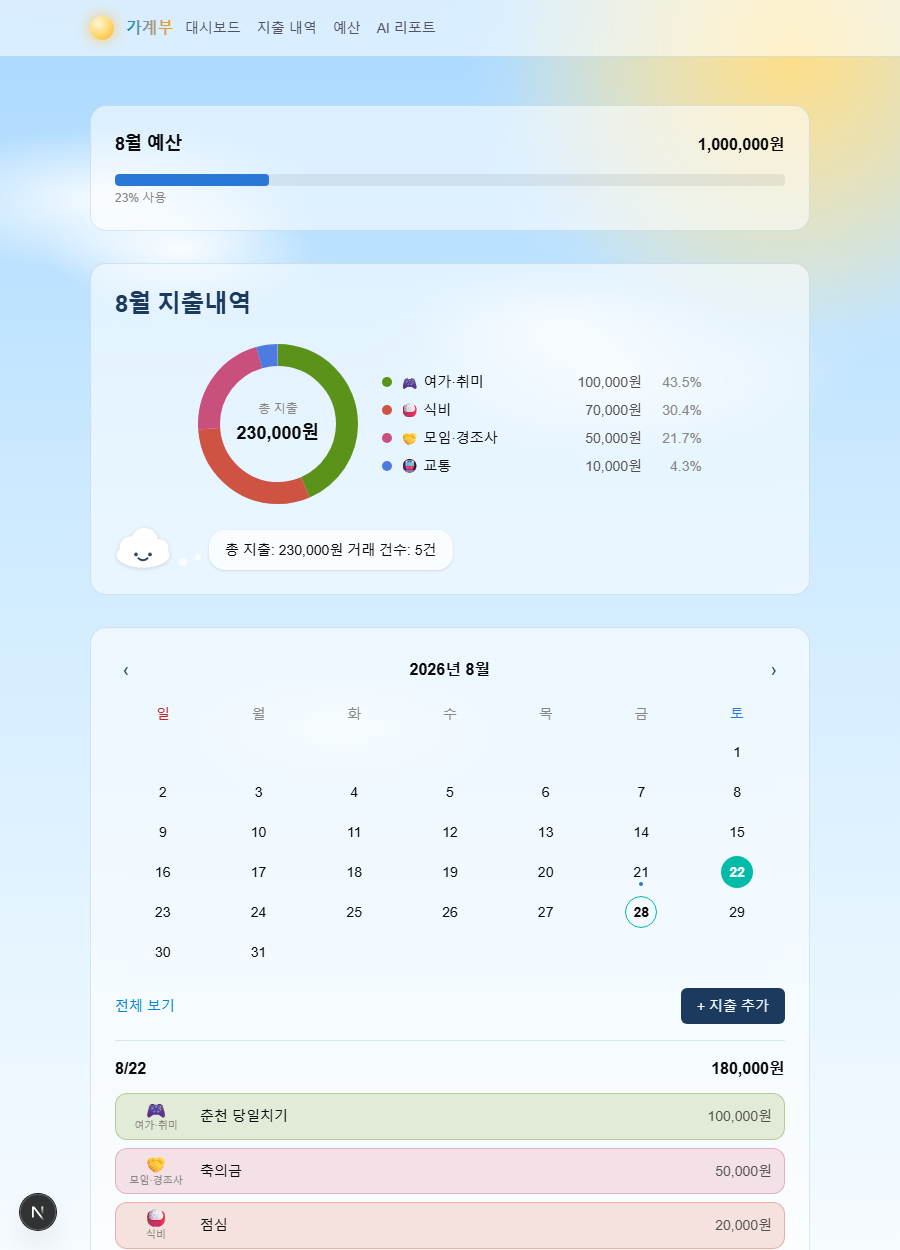
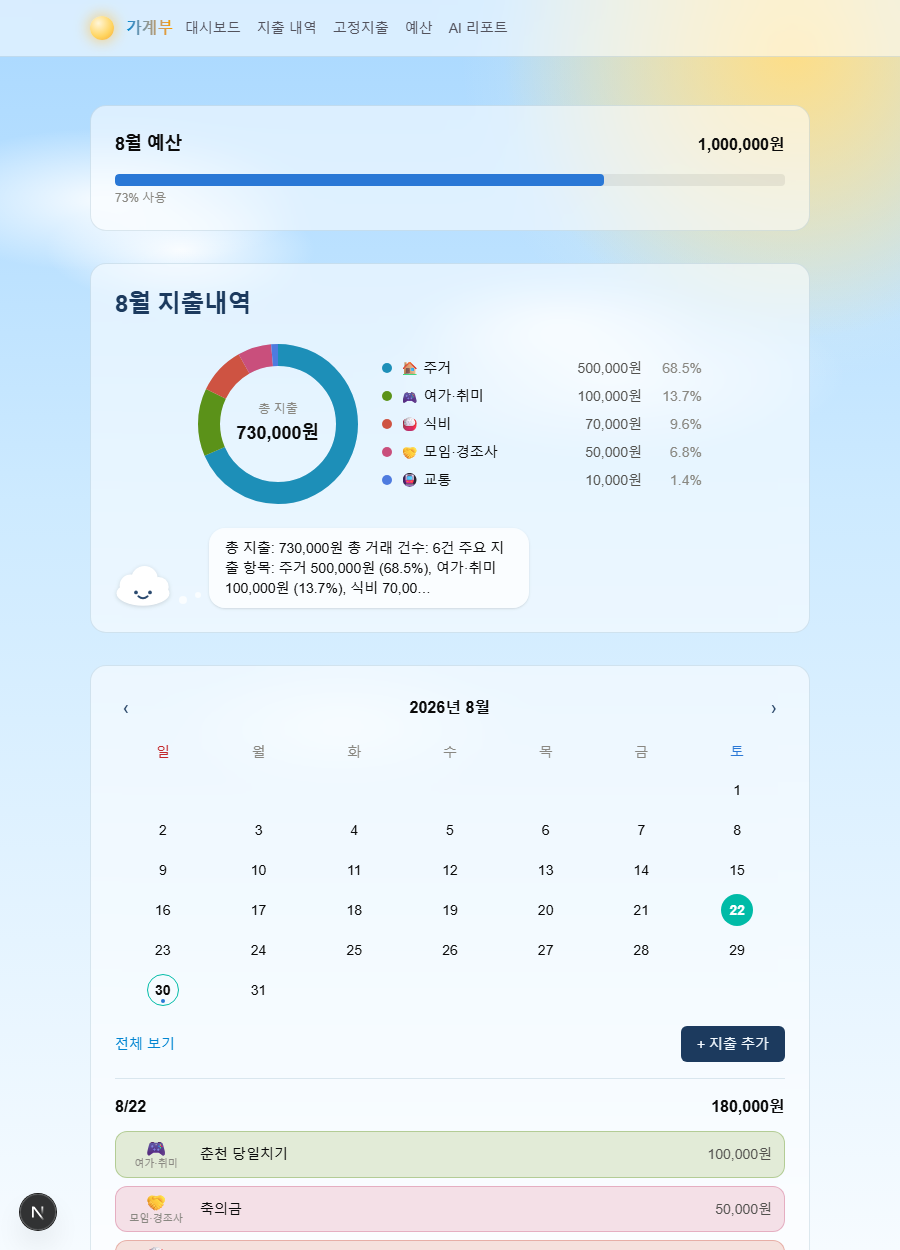
Document recurring expenses and drag-to-move in README
Add feature bullets and project-structure entries for /recurring and
the drag-and-drop calendar cards; refresh both screenshots so they
show the 고정지출 nav item and the dashboard's 고정비/변동비 split.

diff --git a/README.md b/README.md
@@ -19,10 +19,11 @@
 
 - 💸 **지출 기록** — 금액·날짜·카테고리·메모로 지출을 추가/수정/삭제
 - 🍩 **홈 대시보드** — 이번 달 총 지출을 도넛 차트로, 카테고리별 비중을 한눈에 확인
-- 📅 **달력 보기** — 월별 달력에서 지출이 있는 날짜를 표시하고, 날짜를 클릭하면 그날의 지출 내역을 카테고리 색으로 틴트된 카드로 확인
+- 📅 **달력 보기** — 월별 달력에서 지출이 있는 날짜를 표시하고, 날짜를 클릭하면 그날의 지출 내역을 카테고리 색으로 틴트된 카드로 확인. 카드를 드래그해서 다른 날짜에 놓으면 지출 날짜를 바로 옮길 수 있음
 - ➕ **지출 추가 모달** — 홈 화면에서 바로 달력으로 날짜를 고르고 지출/카테고리를 추가
-- 📊 **대시보드 통계** — 카테고리별 지출 막대 차트, 예산 대비 사용률, 최근 6개월 지출 추이
+- 📊 **대시보드 통계** — 카테고리별 지출 막대 차트, 예산 대비 사용률, 최근 6개월 지출 추이, 고정비/변동비 분리
 - 🎯 **예산 관리** — 월별 전체 예산과 카테고리별 예산을 설정하고 사용률 확인
+- 🔁 **고정지출** — 월세·구독료처럼 매달 반복되는 지출을 한 번 등록해두면 매달 지정한 결제일에 지출 내역이 자동으로 기록됨
 - 🏷 **고정 카테고리 12종** — 식비·주거·교통 등 아이콘+색이 정해진 프리셋 카테고리(앱 안에서 추가 불가). 색상은 색맹 시뮬레이션까지 검증해 서로 헷갈리지 않도록 고른 팔레트
 - 🤖 **AI 월간 리포트** — OpenRouter를 통해 무료 LLM 모델을 호출해 이번 달 소비 인사이트를 한국어 마크다운으로 생성
 - 🌤 하늘·구름·해·달을 모티프로 한 라이트/다크 테마
@@ -78,10 +79,11 @@ src/
 │   ├── dashboard/             # 통계 대시보드
 │   ├── expenses/               # 지출 목록/입력
 │   ├── budgets/                # 예산 관리
+│   ├── recurring/               # 고정지출 등록/관리
 │   ├── reports/                 # AI 월간 리포트
 │   ├── api/                    # REST API 라우트
-│   └── _components/            # 홈 화면 전용 컴포넌트 (달력, 도넛 차트, 지출 추가 모달)
-├── lib/                        # 공용 유틸(날짜, 포맷, Prisma 클라이언트, OpenRouter 클라이언트 등)
+│   └── _components/            # 홈 화면 전용 컴포넌트 (달력, 드래그&드롭, 도넛 차트, 지출 추가 모달)
+├── lib/                        # 공용 유틸(날짜, 포맷, 고정지출 자동 생성, Prisma 클라이언트, OpenRouter 클라이언트 등)
 └── generated/prisma/            # Prisma 클라이언트 (자동 생성)
 ```
 
